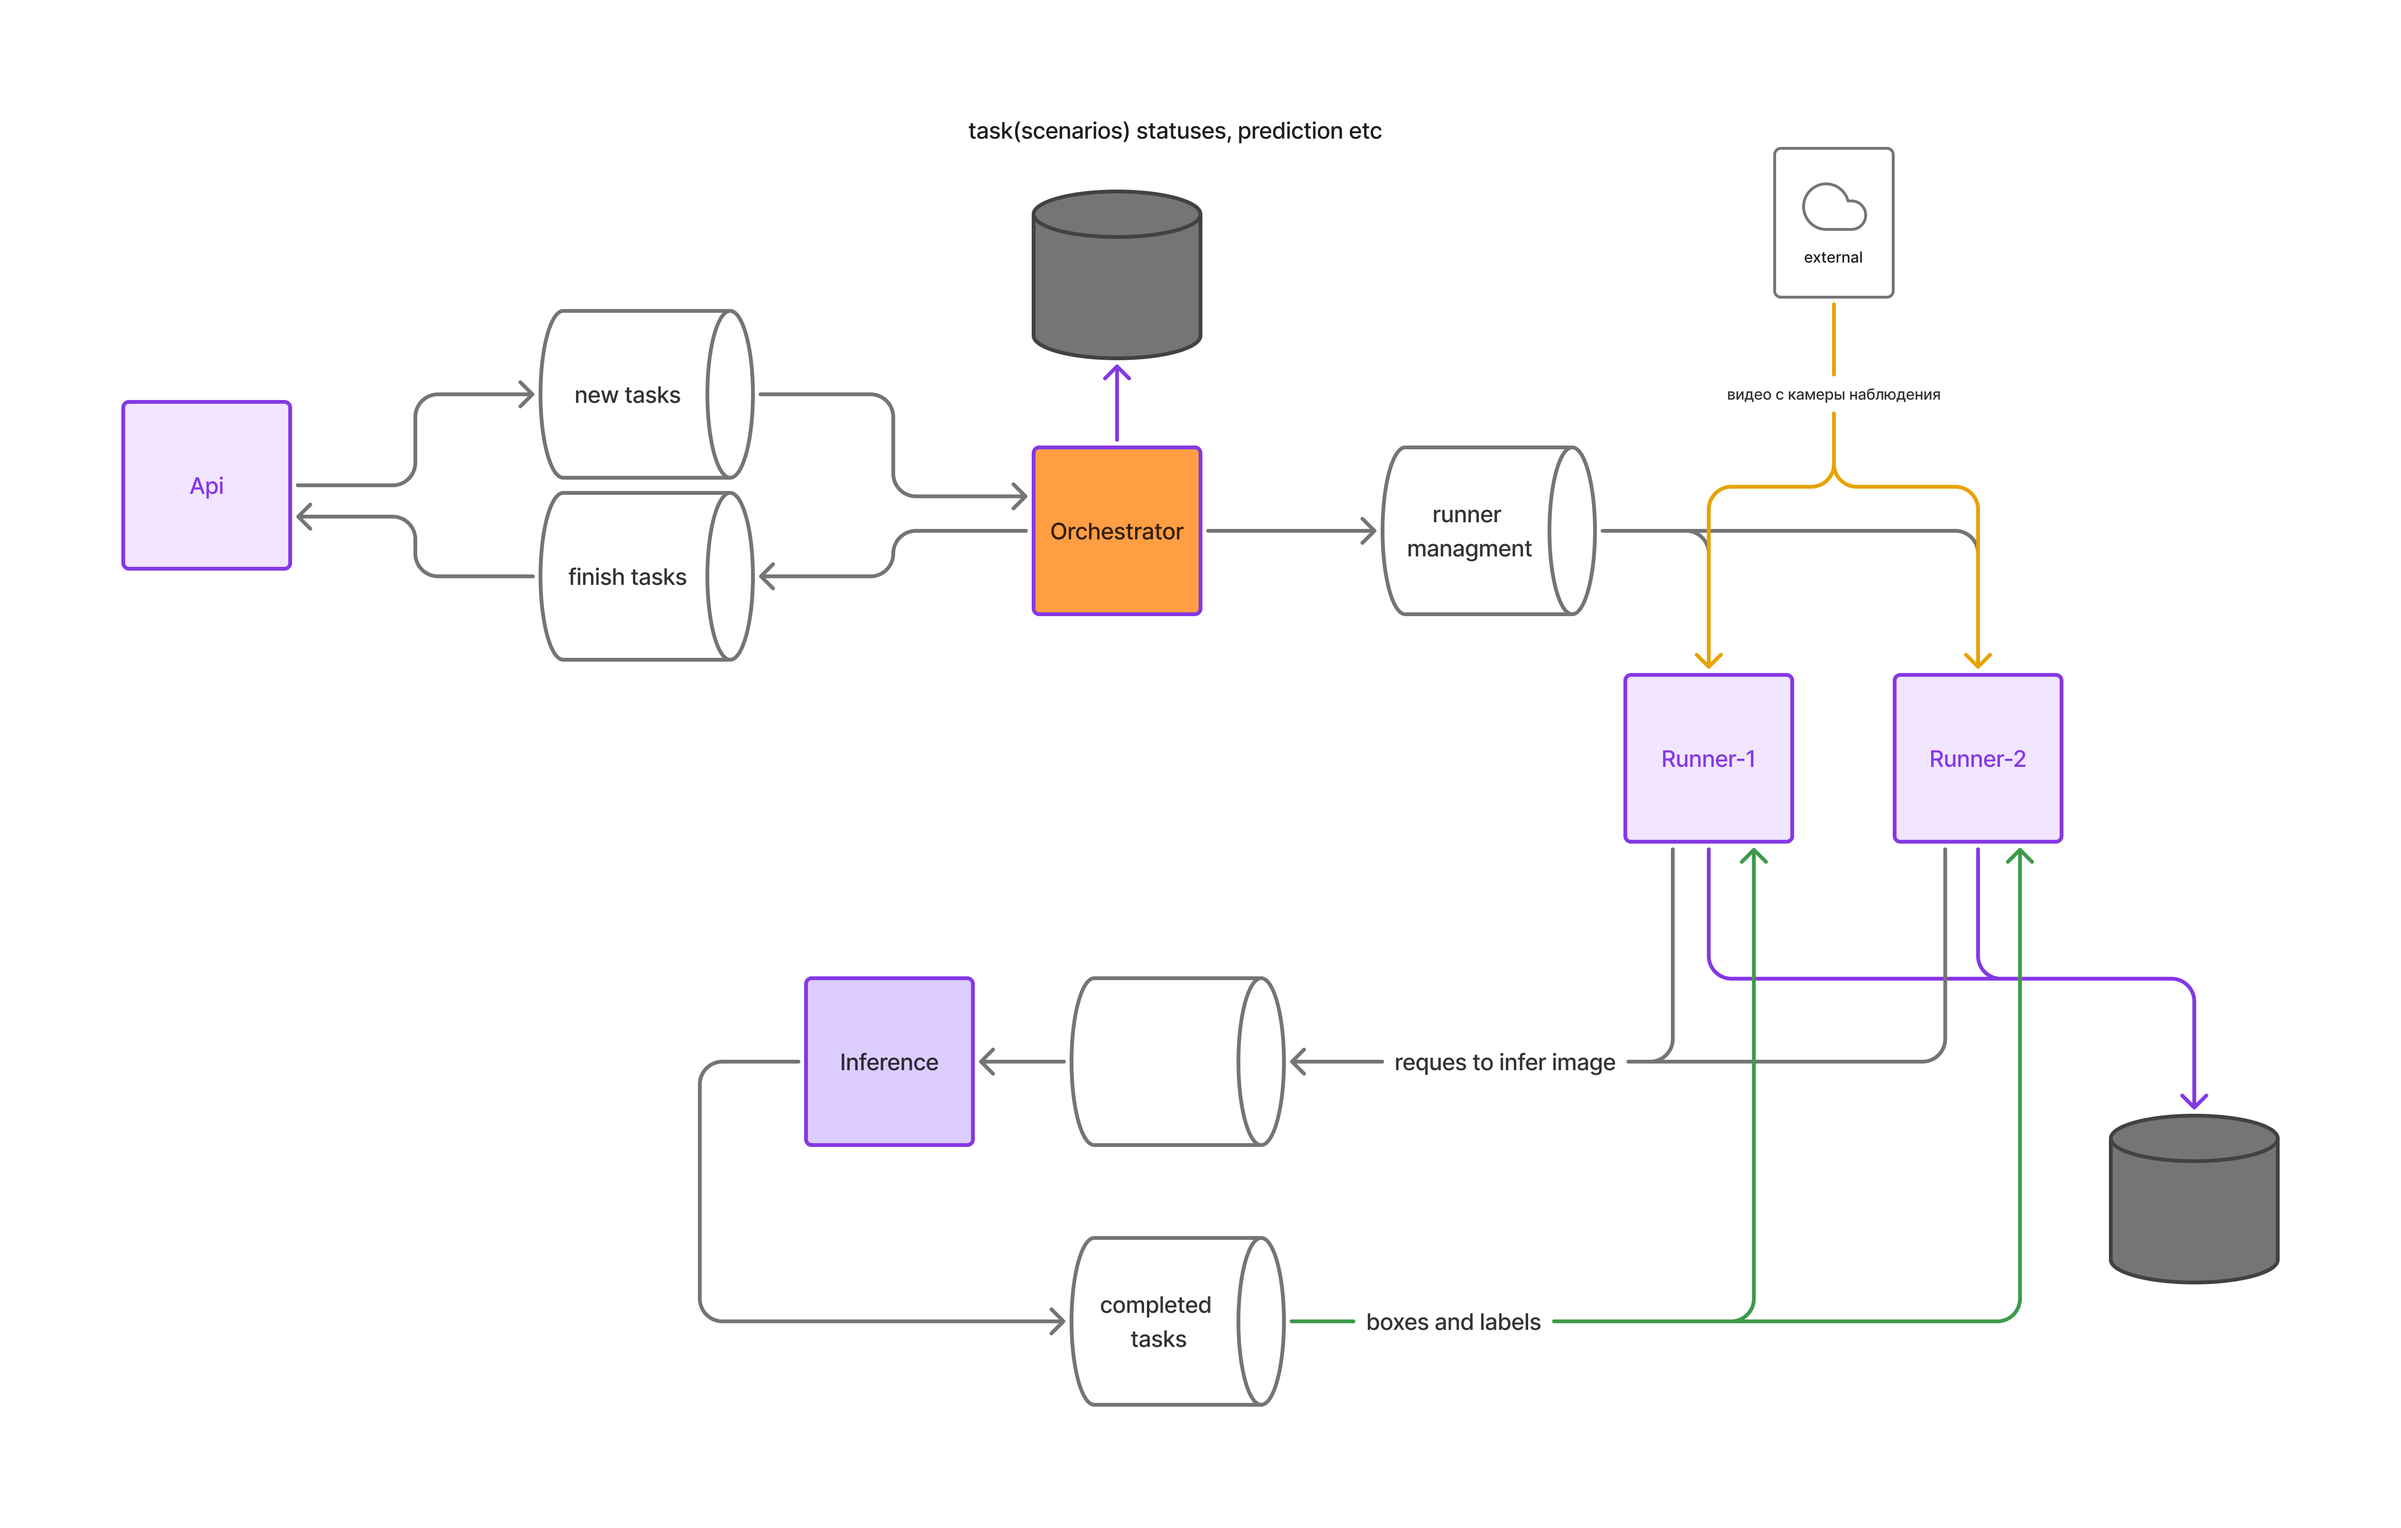
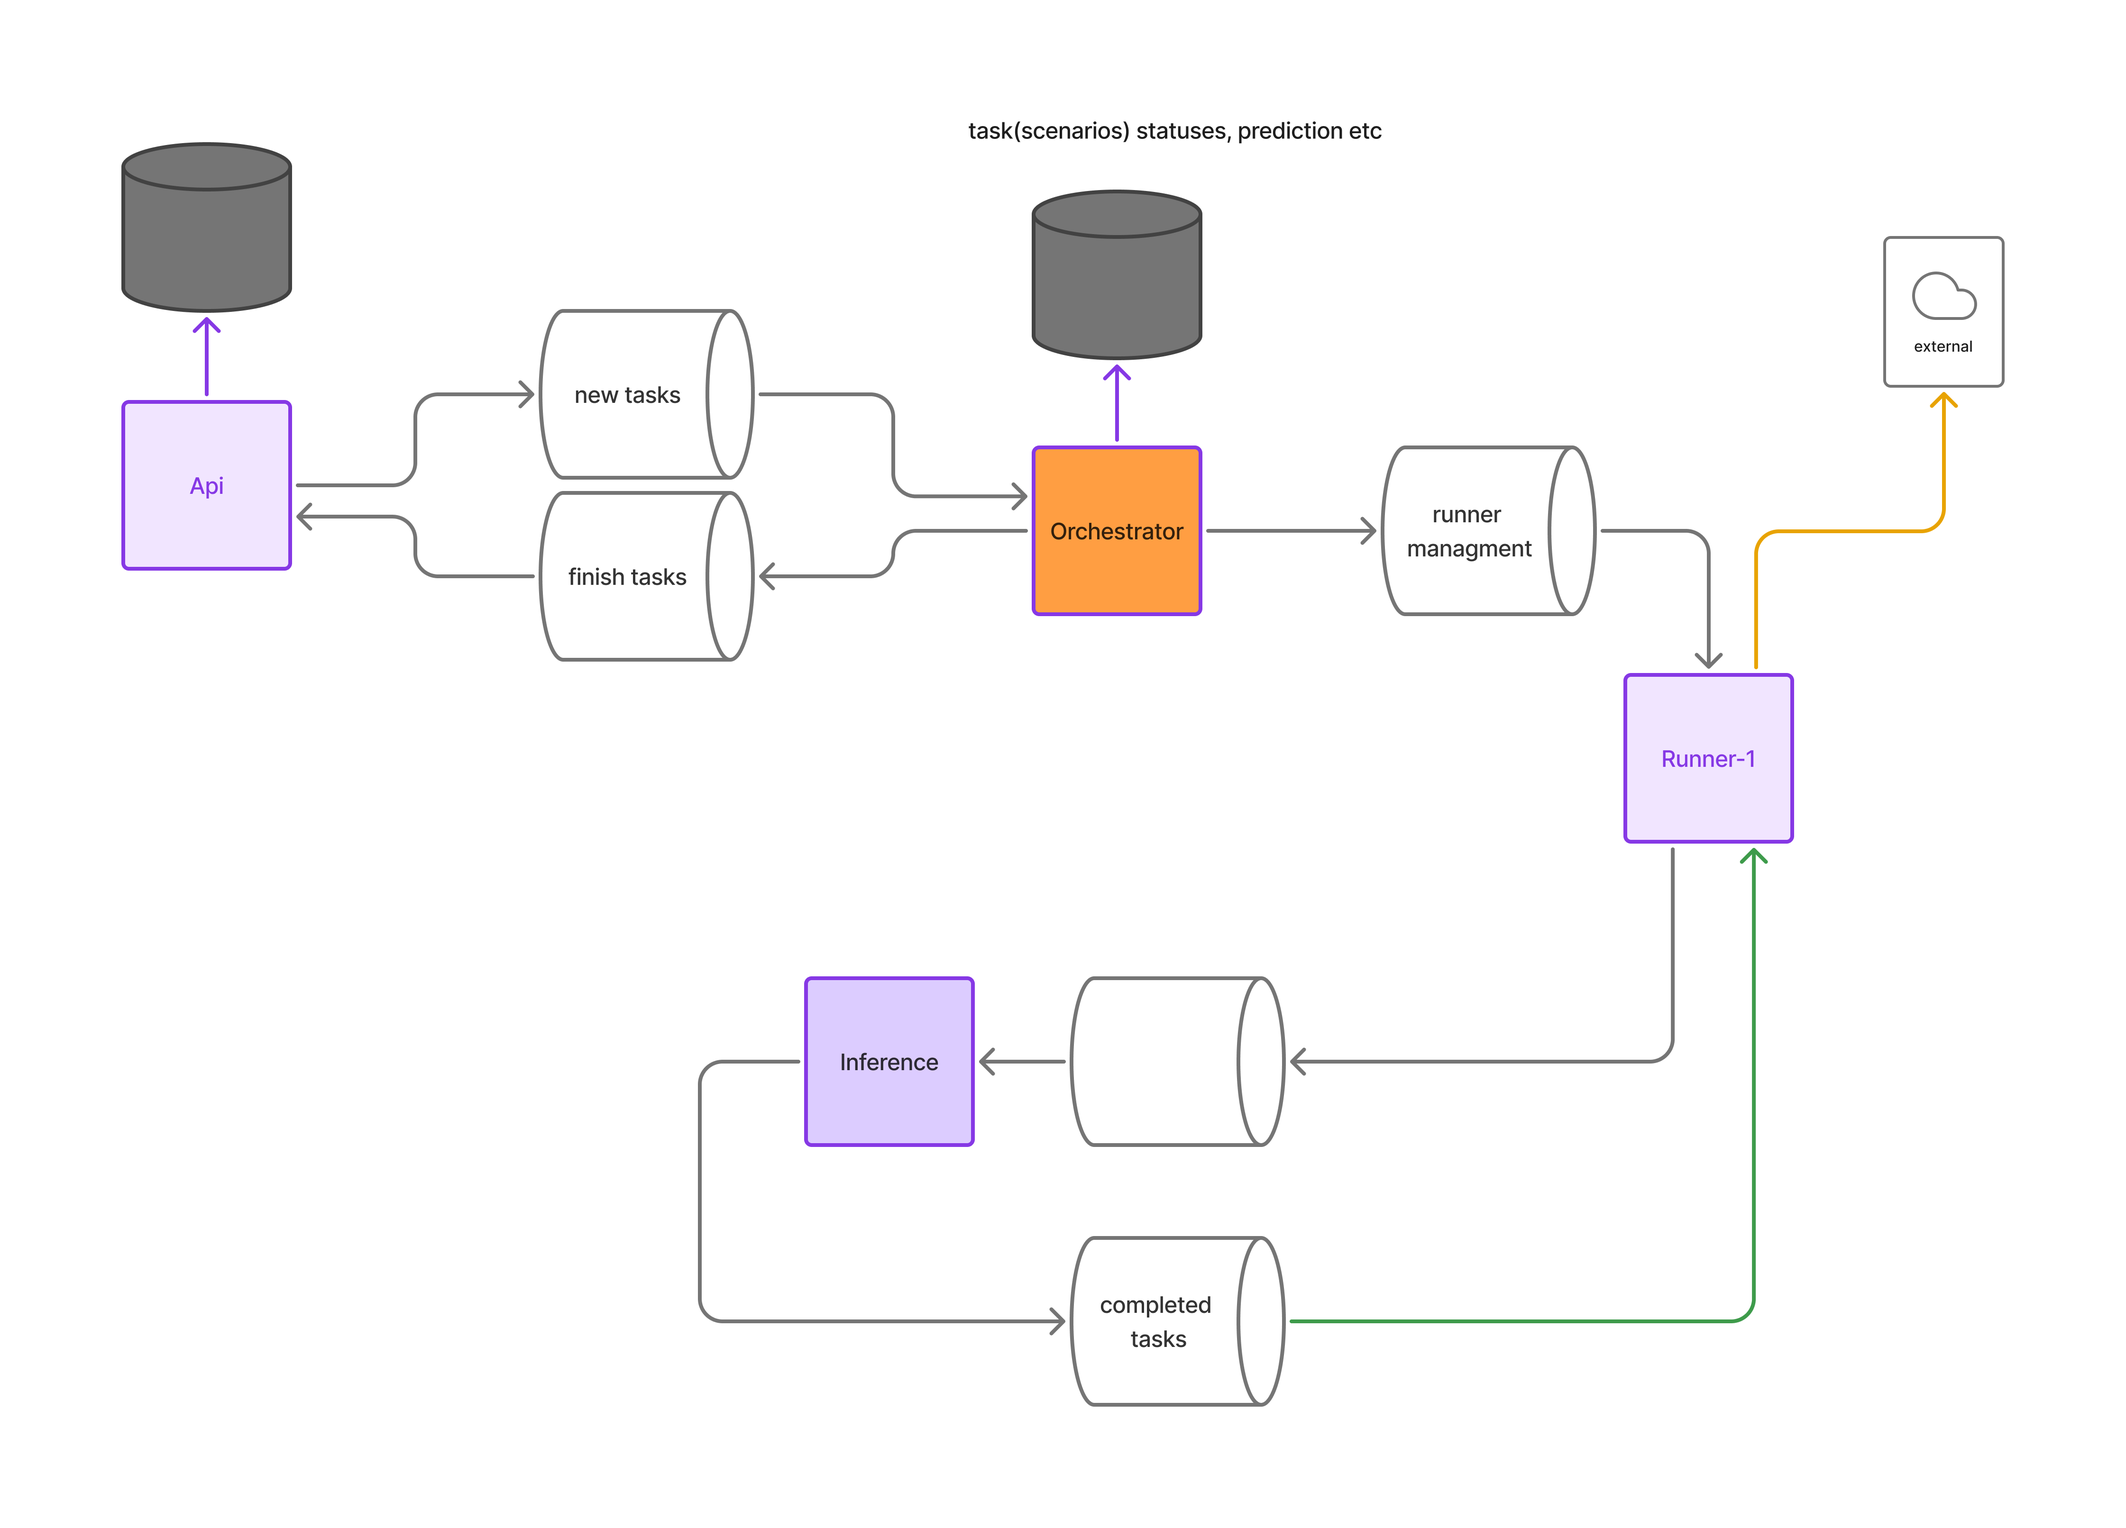
create aiohttp requests:

diff --git a/api/api.py b/api/api.py
@@ -1,8 +1,7 @@
 from fastapi import FastAPI, HTTPException
 from pydantic import BaseModel
 from enum import Enum
-import requests
-import os
+import aiohttp
 import logging
 
 logger = logging.getLogger(__name__)
@@ -27,37 +26,43 @@ class ScenarioUpdate(BaseModel):
 
 @app.post("/scenario/")
 async def create_scenario(scenario_data: ScenarioCreate):
-    logger.info(f"[create_scenario] argument is {scenario_data}")
-    response = requests.post(f"{ORCHESTRATOR_URL}/scenario/", json=scenario_data.model_dump())
-    if response.status_code != 200:
-        logger.error(f"[create_scenario] response from ORCHESTRATOR is not OK: {response.text}")
-        raise HTTPException(status_code=response.status_code, detail=response.text)
-    return response.json()
+    async with aiohttp.ClientSession() as session:
+        async with session.post(f"{ORCHESTRATOR_URL}/scenario/", json=scenario_data.model_dump()) as response:
+            res = await response.json()
+            if response.status != 200:
+                logger.error(f"[create_scenario] response from ORCHESTRATOR is not OK: {await response.text()}")
+                raise HTTPException(status_code=response.status, detail=await response.text())
+            return res
 
 @app.post("/scenario/{scenario_id}/")
 async def update_scenario(scenario_id: str, update: ScenarioUpdate):
-    logger.info(f"[update_scenario] arguments are {scenario_id}, {update}")
-    response = requests.post(f"{ORCHESTRATOR_URL}/scenario/{scenario_id}/", json=update.model_dump())
-    if response.status_code != 200:
-        logger.error(f"[update_scenario] response from ORCHESTRATOR is not OK: {response.text}")
-        raise HTTPException(status_code=response.status_code, detail=response.text)
-    return response.json()
+    async with aiohttp.ClientSession() as session:
+        async with session.post(f"{ORCHESTRATOR_URL}/scenario/{scenario_id}/", json=update.model_dump()) as response:
+            res = await response.json()
+            if response.status != 200:
+                logger.error(f"[update_scenario] response from ORCHESTRATOR is not OK: {await response.text()}")
+                raise HTTPException(status_code=response.status, detail=await response.text())
+            return res
 
 @app.get("/scenario/{scenario_id}/")
 async def get_scenario(scenario_id: str):
-    logger.info(f"[get_scenario] argument is {scenario_id}")
-    response = requests.get(f"{ORCHESTRATOR_URL}/scenario/{scenario_id}/")
-    if response.status_code != 200:
-        logger.error(f"[get_scenario] response from ORCHESTRATOR is not OK: {response.text}")
-        raise HTTPException(status_code=response.status_code, detail=response.text)
-    return response.json()
+    async with aiohttp.ClientSession() as session:
+        async with session.get(f"{ORCHESTRATOR_URL}/scenario/{scenario_id}/") as response:
+            res = await response.json()
+            if response.status != 200:
+                logger.error(f"[get_scenario] response from ORCHESTRATOR is not OK: {await response.text()}")
+                raise HTTPException(status_code=response.status, detail=await response.text())
+            return res
 
 @app.get("/prediction/{scenario_id}/")
 async def get_prediction(scenario_id: str):
-    response = requests.get(f"{ORCHESTRATOR_URL}/prediction/{scenario_id}/")
-    if response.status_code != 200:
-        raise HTTPException(status_code=response.status_code, detail=response.text)
-    return response.json()
+    async with aiohttp.ClientSession() as session:
+        async with session.get(f"{ORCHESTRATOR_URL}/prediction/{scenario_id}/") as response:
+            res = await response.json()
+            if response.status != 200:
+                logger.error(f"[get_prediction] response from ORCHESTRATOR is not OK: {await response.text()}")
+                raise HTTPException(status_code=response.status, detail=await response.text())
+            return res
 
 if __name__ == "__main__":
     import uvicorn

diff --git a/runner/runner.py b/runner/runner.py
@@ -1,5 +1,4 @@
 import cv2
-import requests
 from PIL import Image
 import io
 import numpy as np
@@ -8,10 +7,17 @@ from fastapi import FastAPI
 from fastapi.responses import JSONResponse
 import pydantic
 from pydantic import BaseModel
-import httpx
+import aiohttp
 from typing import Any
+import logging
 
 app = FastAPI(title="Runner Service")
+logger = logging.getLogger(__name__)
+
+# dict for start and shutdosn isntances
+# topics in kafka
+# aiokafka new versions for non zookeeper
+
 
 class AliveResponse(BaseModel):
     status_code: int
@@ -19,7 +25,8 @@ class AliveResponse(BaseModel):
 class StreamResponse(BaseModel):
     content: Any
 
-STREAM_URL = "https://s35.ipcamlive.com/streams/23fmhujpncmqvpew3/stream.m3u8"
+STREAM_URL = "https://s46.ipcamlive.com/streams/2eulqgccb8zksexmj/stream.m3u8"
+INFERENCE_URl = "http://inference_service:8001"
 
 async def send_frame_to_inference(frame):
     rgb_frame = cv2.cvtColor(frame, cv2.COLOR_BGR2RGB)
@@ -29,16 +36,25 @@ async def send_frame_to_inference(frame):
     pil_image.save(buf, format="JPEG")
     buf.seek(0)
 
-    files = {'file': ("frame.jpg", buf, "image/jpeg")}
+    form = aiohttp.FormData()
+    form.add_field(
+        name='file',
+        value=buf,
+        filename='frame.jpg',
+        content_type='image/jpeg'
+    )
 
-    async with httpx.AsyncClient() as client:
-        response = await client.post("http://inference_service:8001/inference/", files=files)
-    
-    if response.status_code == 200:
-        return response.json()
-    return None
+    async with aiohttp.ClientSession() as session:
+        async with session.post(f"{INFERENCE_URl}/inference/", data=form) as response:
+            res = await response.json()
+            if response.status != 200:
+                logger.error(f"[send_frame_to_inference] response from INFERENCE is not OK: {await response.text()}")
+                return False
+            
+            return res
 
-def frame_stream(stream_url: str):
+async def frame_stream(stream_url: str):
+    # кажется тут упираемся в синхронность и ждем пока получим кадр
     cap = cv2.VideoCapture(stream_url)
 
     if not cap.isOpened():
@@ -48,8 +64,8 @@ def frame_stream(stream_url: str):
         while True:
             ret, frame = cap.read()
             if not ret:
-                continue  # Stream hiccup? Retry.
-            yield frame
+                continue  # Retry
+            return frame
     finally:
         cap.release()
 
@@ -73,14 +89,12 @@ def plot_boxes(frame, predictions):
     return frame
     
 @app.post("/process-stream/", response_model=StreamResponse)
-async def process_stream():
-    frame_gen = frame_stream(STREAM_URL)
+async def process_stream(data: Any = None):
+    frame = await frame_stream(STREAM_URL)
+    result = await send_frame_to_inference(frame)
 
-    for frame in frame_gen:
-        result = await send_frame_to_inference(frame)
-
-        if result is not None:
-            return JSONResponse(content=result)
+    if result:
+        return JSONResponse(content=result)
 
     return {"message": "No valid frame was processed"}
 

diff --git a/runner/video.py b/runner/video.py
@@ -1,11 +1,41 @@
 import cv2
-from inference.model import get_bb
 import numpy as np
 from PIL import Image
-STREAM_URL = "https://s35.ipcamlive.com/streams/23fmhujpncmqvpew3/stream.m3u8"
+
+STREAM_URL = "https://s46.ipcamlive.com/streams/2eulqgccb8zksexmj/stream.m3u8"
 
 # Open the video capture
 cap = cv2.VideoCapture(STREAM_URL)
+
+
+from transformers import YolosImageProcessor, YolosForObjectDetection
+from PIL import Image
+import torch
+
+model = YolosForObjectDetection.from_pretrained('hustvl/yolos-tiny')
+image_processor = YolosImageProcessor.from_pretrained("hustvl/yolos-tiny")
+
+
+def get_bb(image: Image):
+    inputs = image_processor(images=image, return_tensors="pt")
+    outputs = model(**inputs)
+
+    # model predicts bounding boxes and corresponding COCO classes
+    logits = outputs.logits
+    bboxes = outputs.pred_boxes
+
+    # print results
+    target_sizes = torch.tensor([image.size[::-1]])
+    results = image_processor.post_process_object_detection(outputs, threshold=0.2, target_sizes=target_sizes)[0]
+    ress = []
+    for score, label, box in zip(results["scores"], results["labels"], results["boxes"]):
+        box = [round(i) for i in box.tolist()]
+        item = model.config.id2label[label.item()]
+
+        ress.append({'label': item, 'bb': box})
+
+    return ress
+
 
 i = 0
 if not cap.isOpened():

diff --git a/orchestrator/orchestrator.py b/orchestrator/orchestrator.py
@@ -6,7 +6,7 @@ from uuid import uuid4
 from typing import Dict
 from models import Scenario, ScenarioCreate, ScenarioStatus, ScenarioUpdate, PredictionResult, is_transition_allowed
 import logging
-import requests
+import aiohttp
 
 import time
 
@@ -23,7 +23,7 @@ async def create_scenario(scenario_data: ScenarioCreate):
     scenario_id = str(uuid4())
     scenario = Scenario(id=scenario_id, status=ScenarioStatus.init_startup)
     scenarios[scenario_id] = scenario
-
+    
     return scenario
 
 @app.post("/scenario/{scenario_id}/", response_model=Scenario)
@@ -49,11 +49,13 @@ async def update_scenario(scenario_id: str, update: ScenarioUpdate):
     scenarios[scenario_id].status = new_status
 
     if new_status == ScenarioStatus.active:
-        response_from_runner = requests.get(f"{RUNNER_URL}/status/")
-        predictions = requests.post(f"{RUNNER_URL}/process-stream/")
-        
 
-    return scenarios[scenario_id]
+        async with aiohttp.ClientSession() as session:
+            async with session.post(f"{RUNNER_URL}/process-stream/") as response:
+                predictions = await response.json()
+
+                scenarios[scenario_id].data = predictions
+                return scenarios[scenario_id]
 
 @app.get("/scenario/{scenario_id}/", response_model=Scenario)
 async def get_scenario(scenario_id: str):

diff --git a/inference/model.py b/inference/model.py
@@ -1,7 +1,6 @@
 from transformers import YolosImageProcessor, YolosForObjectDetection
 from PIL import Image
 import torch
-import requests
 
 model = YolosForObjectDetection.from_pretrained('hustvl/yolos-tiny')
 image_processor = YolosImageProcessor.from_pretrained("hustvl/yolos-tiny")

diff --git a/orchestrator/README.md b/orchestrator/README.md
@@ -3,9 +3,9 @@
 Оркестратор - главный управляющий модуль, в нем засложена последовательность изменений стейт машины, а также непосредственная работа и управление стейт машинами
 
 
-### Модули
+## Ручки
 
 
-### Тех инфо
+## Тех инфо
 
-Находится на порту `1612`
+- Находится на порту `1612`

diff --git a/api/README.md b/api/README.md
@@ -10,4 +10,6 @@
 
 ### Тех инфо
 
-Находится на порту `8000`
+- Находится на порту `8000`
+
+- Используем `aiohttp` для асинхронных походов в оркестратор

diff --git a/inference/README.md b/inference/README.md
@@ -10,4 +10,4 @@
 
 ### Тех инфо
 
-Находится на порту `8001`
+- Находится на порту `8001`

diff --git a/runner/README.md b/runner/README.md
@@ -11,4 +11,4 @@
 
 ### Тех инфо
 
-Находится на порту `7878`
+- Находится на порту `7878`

diff --git a/README.md b/README.md
@@ -3,7 +3,7 @@
 ### Запуск
 
 ```
-docker-compose up --build
+docker compose up --build
 ```
 
 ### Структура
